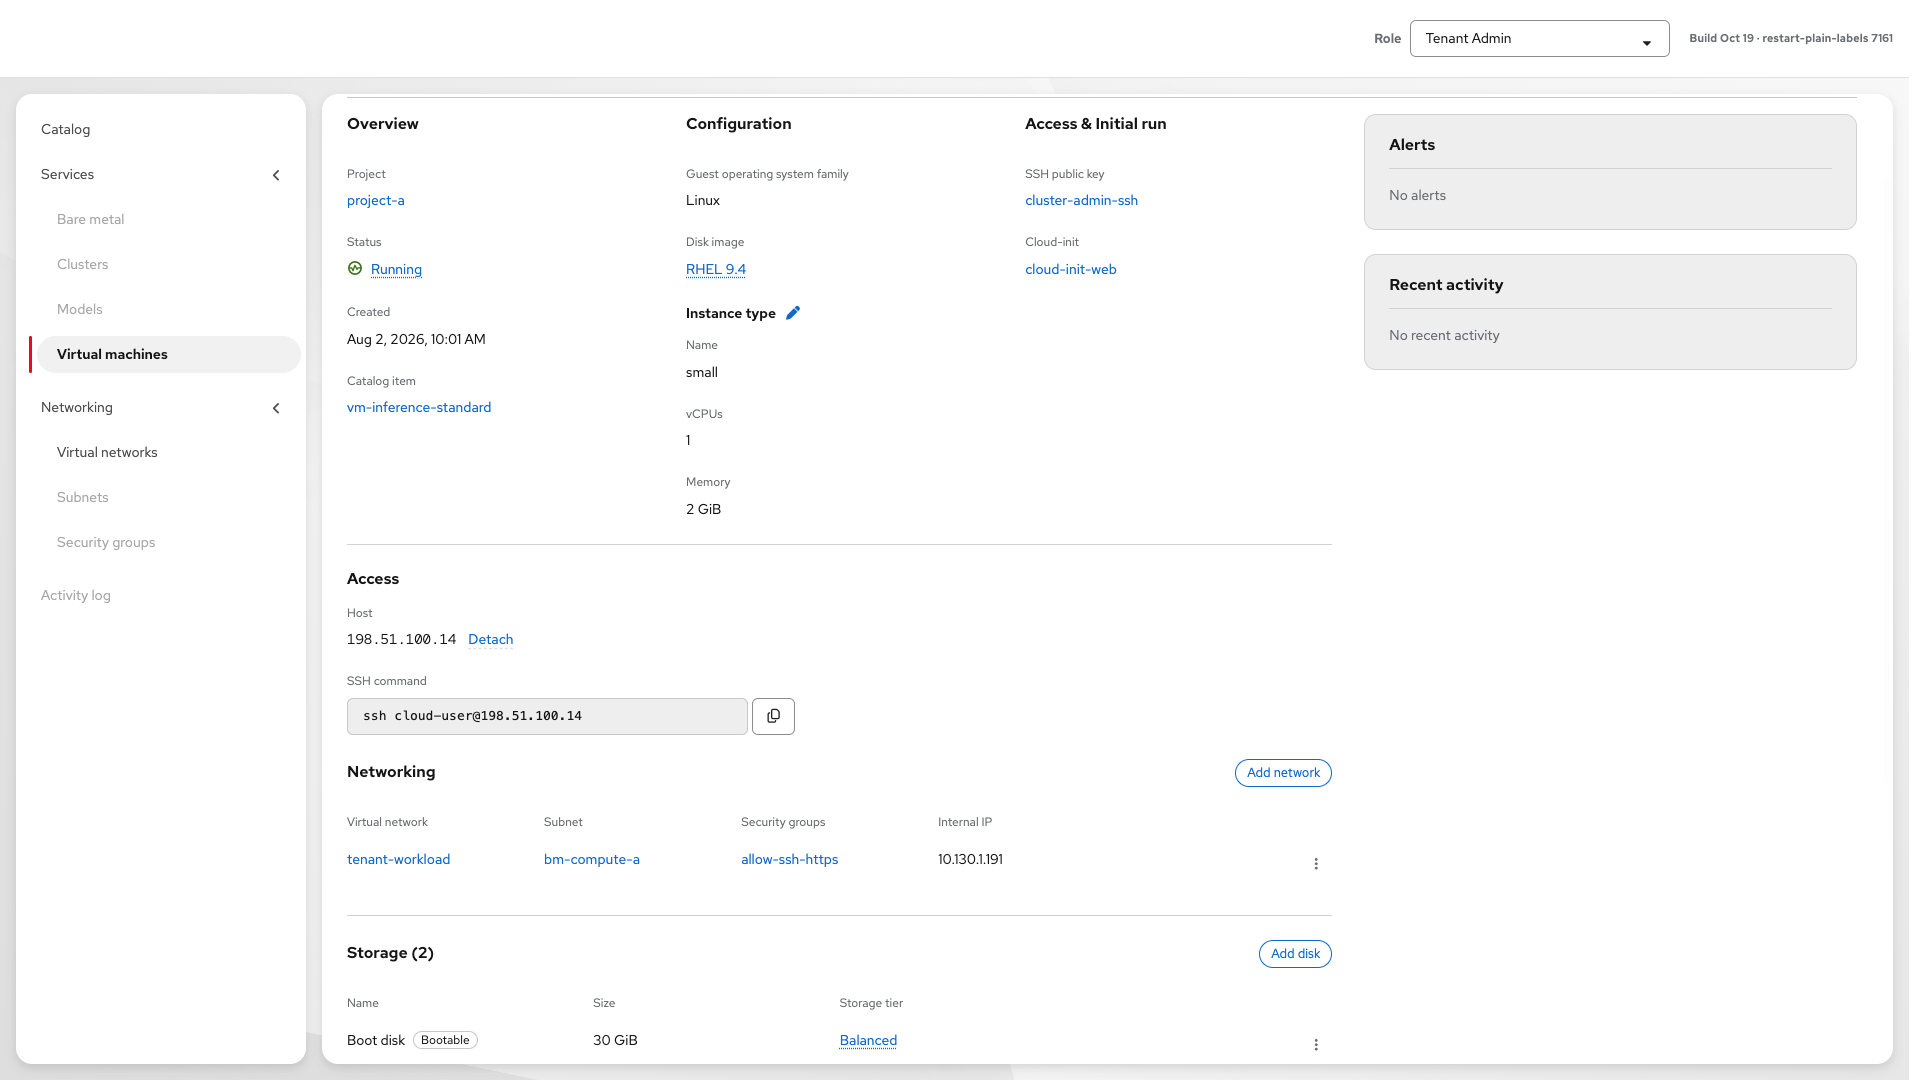
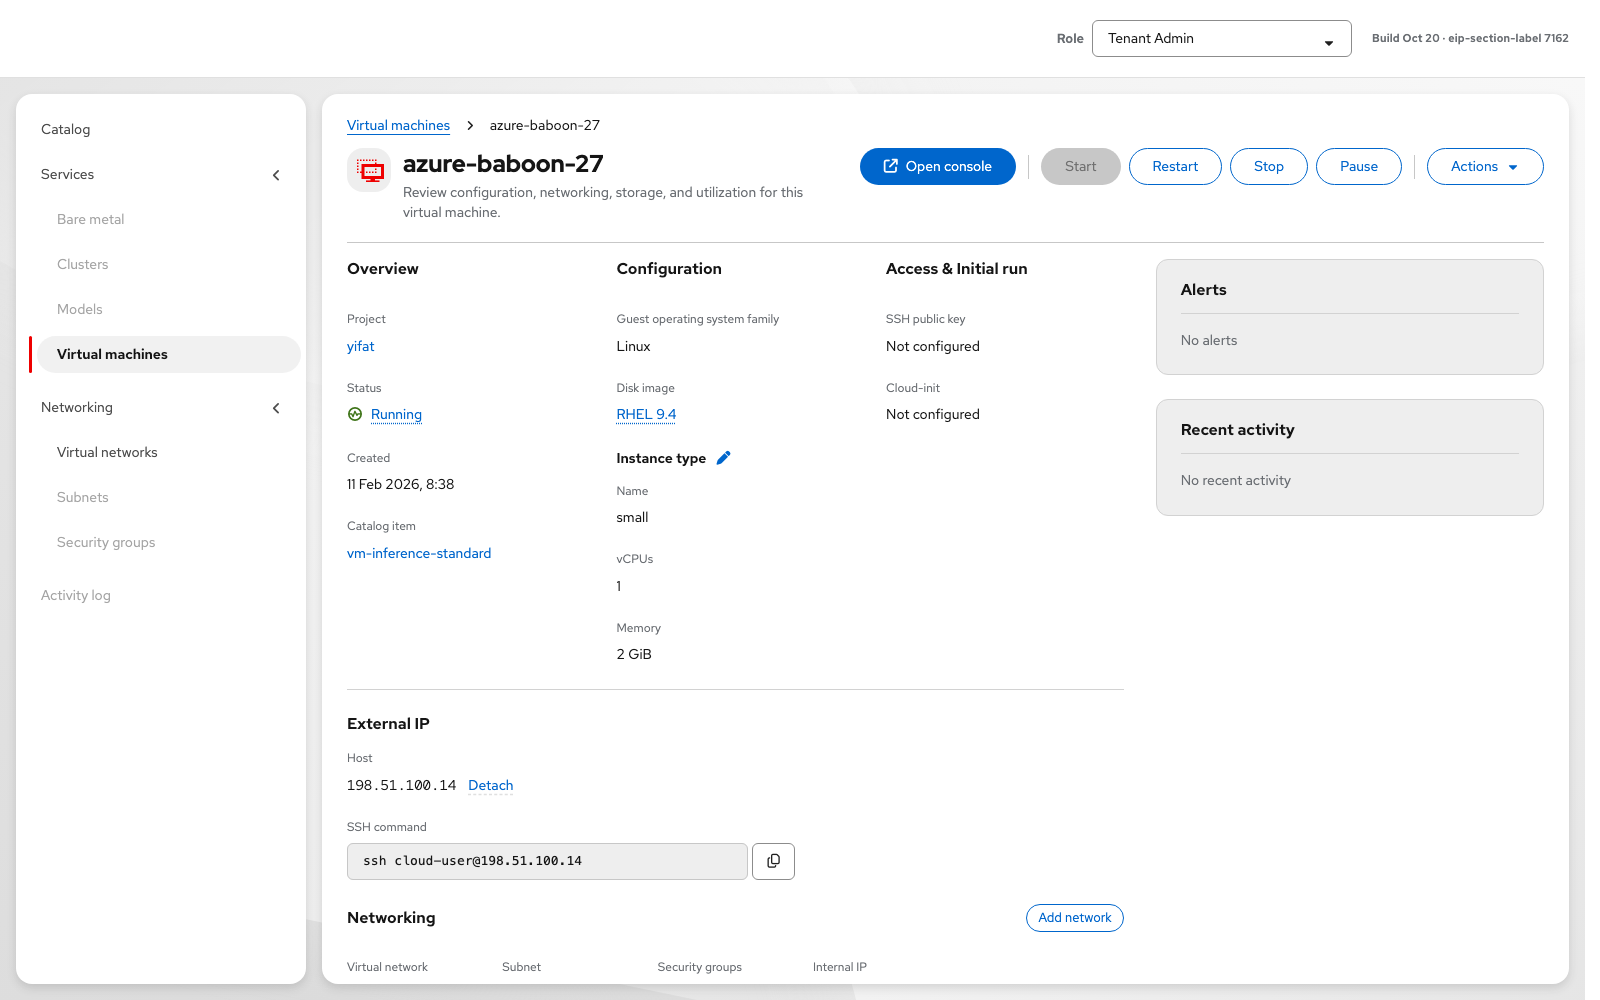
Rename Overview Access section to External IP and refresh screenshots.

diff --git a/vmaas-ux-prototype.html b/vmaas-ux-prototype.html
@@ -7011,7 +7011,7 @@
               <span class="pf-v6-c-form-control__toggle-icon"><svg viewBox="0 0 320 512" aria-hidden="true" focusable="false"><path d="M31.3 192h257.3c17.8 0 26.7 21.5 14.1 34.1L174.1 354.8c-7.8 7.8-20.5 7.8-28.3 0L17.2 226.1C4.6 213.5 13.5 192 31.3 192z"/></svg></span>
             </span>
           </span>
-          <span class="prototype-build-tag" id="prototype-build-tag">Build Oct 19 · restart-plain-labels 7161</span>
+          <span class="prototype-build-tag" id="prototype-build-tag">Build Oct 20 · eip-section-label 7162</span>
         </div>
       </div>
       <div class="console__body">
@@ -14564,7 +14564,7 @@
 
       return `
         <section class="vm-access-section" aria-labelledby="vm-access-eip-title">
-          <h3 class="ethan-detail-col__title" id="vm-access-eip-title">Access</h3>
+          <h3 class="ethan-detail-col__title" id="vm-access-eip-title">External IP</h3>
           ${itField('Host', hostHtml)}
           ${itField('SSH command', sshHtml)}
         </section>`;

diff --git a/osac-2621-vmaas-tenant-networking-handoff.md b/osac-2621-vmaas-tenant-networking-handoff.md
@@ -12,7 +12,7 @@
 | **Eng epic** | [HPUX-2249](https://redhat.atlassian.net/browse/HPUX-2249) — *VMaaS Tenant Networking* |
 | **Scope of this handoff** | **VMaaS-only:** how a VM connects to shared virtual networks + **External IP** (create + day-2). Virtual network / External IP **list** management is **out of scope** (unified networking). |
 | **Handoff Google Doc** | [OSAC-2621 — VMaaS Tenant Networking (UX handoff)](https://docs.google.com/document/d/1Bb-TzaXkhdASe6btymwRk2u0wXycwyqS-I8h637hDGY/edit?usp=drivesdk) (shared with @redhat.com) |
-| **Interactive mock** | [vmaas-ux-prototype.html](https://yfrimanm.github.io/openshift-origin-design/vmaas-ux-prototype.html?v=7161-ethan-access) |
+| **Interactive mock** | [vmaas-ux-prototype.html](https://yfrimanm.github.io/openshift-origin-design/vmaas-ux-prototype.html?v=7162-eip-section) |
 | **Ethan reference (BMaaS)** | [Launch BM → Networking](https://heyethankim.github.io/osac-bmaas/tenant-admin/northsummit/workspace?nav=catalog&action=launch-instance&item=bare-metal-general-purpose-server&step=networking) |
 | **Alignment note** | [OSAC-2616 comment](https://redhat.atlassian.net/browse/OSAC-2616?focusedCommentId=18959987) — Create VM **Networking** matches BMaaS/Cluster attachment patterns; **VM-only** difference = Additional networks (Custom path). |
 | **Status** | Design complete for VM attach + External IP. VN CRUD + External IPs list → [OSAC-1433](https://redhat.atlassian.net/browse/OSAC-1433). |
@@ -24,7 +24,7 @@
 VMaaS networking UX is about **connecting a VM** to the shared networking model and **reaching it over SSH**:
 
 1. At **Create VM → Networking**, choose how the VM attaches to an existing virtual network (Tenant default / Custom), security groups, optional **auto-attach External IP**, and Additional networks (Custom only).
-2. On **VM Overview**, manage **External IP** day-2 via Ethan **Access** (Host + SSH command) — with clear **attaching** and **failed** states.
+2. On **VM Overview**, manage day-2 **External IP** (section title **External IP**; Host + SSH command, Ethan pattern) — with clear **attaching** and **failed** states.
 
 Virtual networks are **shared** across clusters, bare metal, and VMs. That management UX is **not** duplicated here.
 
@@ -46,16 +46,16 @@ The VMaaS prototype may still show **Networking → Virtual networks** as a **pl
 
 ### A. Create VM → Networking (Ethan-aligned attachment)
 
-1. Open [the mock](https://yfrimanm.github.io/openshift-origin-design/vmaas-ux-prototype.html?v=7161-ethan-access) as **Tenant Admin**.
+1. Open [the mock](https://yfrimanm.github.io/openshift-origin-design/vmaas-ux-prototype.html?v=7162-eip-section) as **Tenant Admin**.
 2. **Create virtual machine** → **Networking**.
 3. **Tenant default** / **Custom network** felt cards.
 4. Tenant default: read-only VN + Subnet + Security groups; External IP switch (**default on**). Additional networks **hidden**.
 5. Custom: VN → Subnet → SG multi-select; External IP; **Additional networks** (Add network).
 6. Review → Networking section.
 
-### B. External IP (day-2) — Ethan Access pattern
+### B. External IP (day-2)
 
-Day-2 matches Ethan BMaaS **Access** (not a card): **Host** + **SSH command** (clipboard-copy), above Networking.
+Section title: **External IP** (avoids colliding with Overview **Access & Initial run**). Layout matches Ethan BMaaS Host + SSH (not a card): **Host** + **SSH command** (clipboard-copy), above Networking.
 
 | State | UI |
 |---|---|
@@ -76,7 +76,7 @@ Day-2 matches Ethan BMaaS **Access** (not a card): **Host** + **SSH command** (c
 | Tenant default + Custom + SG multi + EIP default on | **Covered** | |
 | Additional networks Custom-only | **Covered** | |
 | Day-2 Attach External IP modal | **Covered** | Project pool |
-| External IP prominence (SSH access) | **Covered** | Ethan Access: Host + SSH clipboard |
+| External IP prominence (SSH access) | **Covered** | Section **External IP**; Host + SSH clipboard |
 | Attach **in progress** | **Covered** | Attaching state |
 | Attach **failure** | **Covered** | Failed + Retry / Choose another |
 | VN list / create / edit | **Out of scope** | [OSAC-1433](https://redhat.atlassian.net/browse/OSAC-1433) |
@@ -100,7 +100,8 @@ Day-2 matches Ethan BMaaS **Access** (not a card): **Host** + **SSH command** (c
 - Unified networking feature: [OSAC-1433](https://redhat.atlassian.net/browse/OSAC-1433)
 - Ethan sync: [OSAC-2616](https://redhat.atlassian.net/browse/OSAC-2616)
 - VMaaS networking feature: [OSAC-1435](https://redhat.atlassian.net/browse/OSAC-1435)
-- Prototype build: `7161` (*ethan-access* / restart-plain-labels)
+- Prototype build: `7162` (*eip-section-label*)
+- Screenshots: [gh-pages/screenshots/osac-2621](https://github.com/yfrimanm/openshift-origin-design/tree/gh-pages/screenshots/osac-2621)
 
 ---
 
